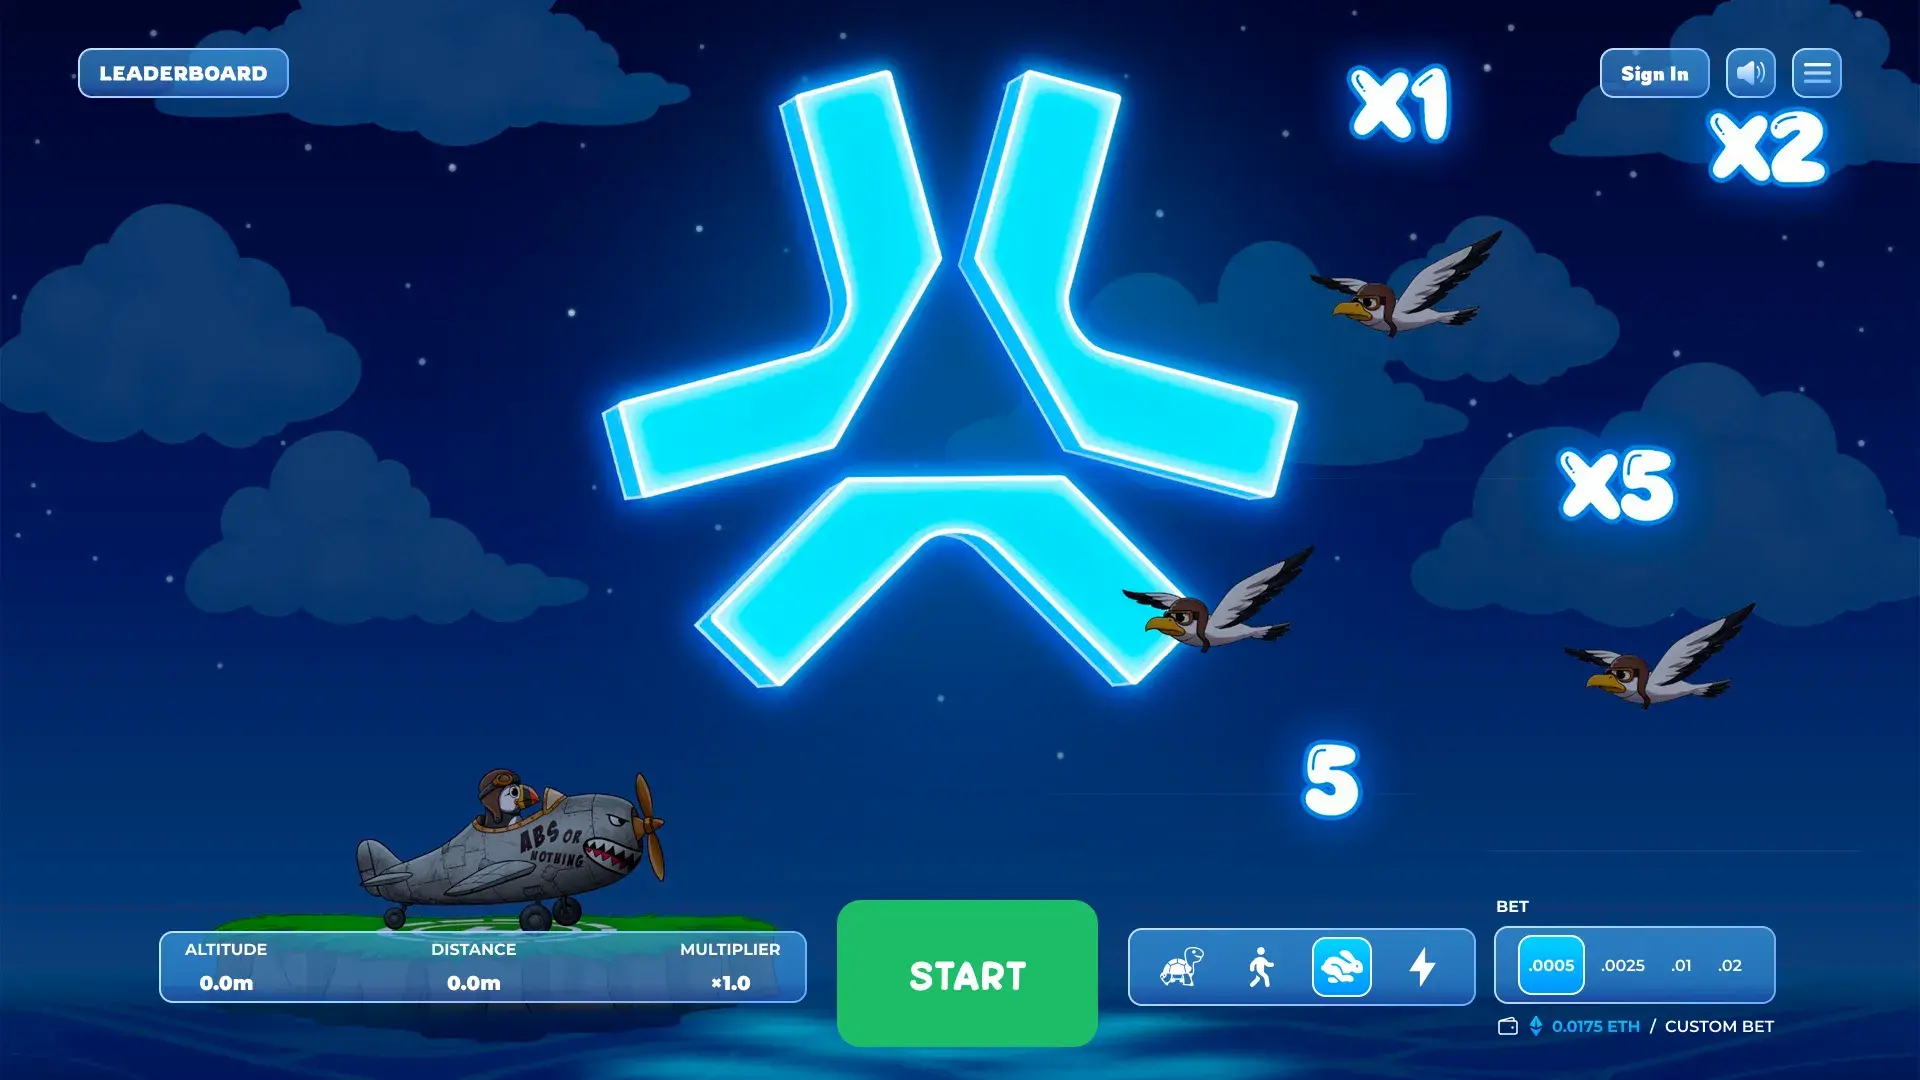
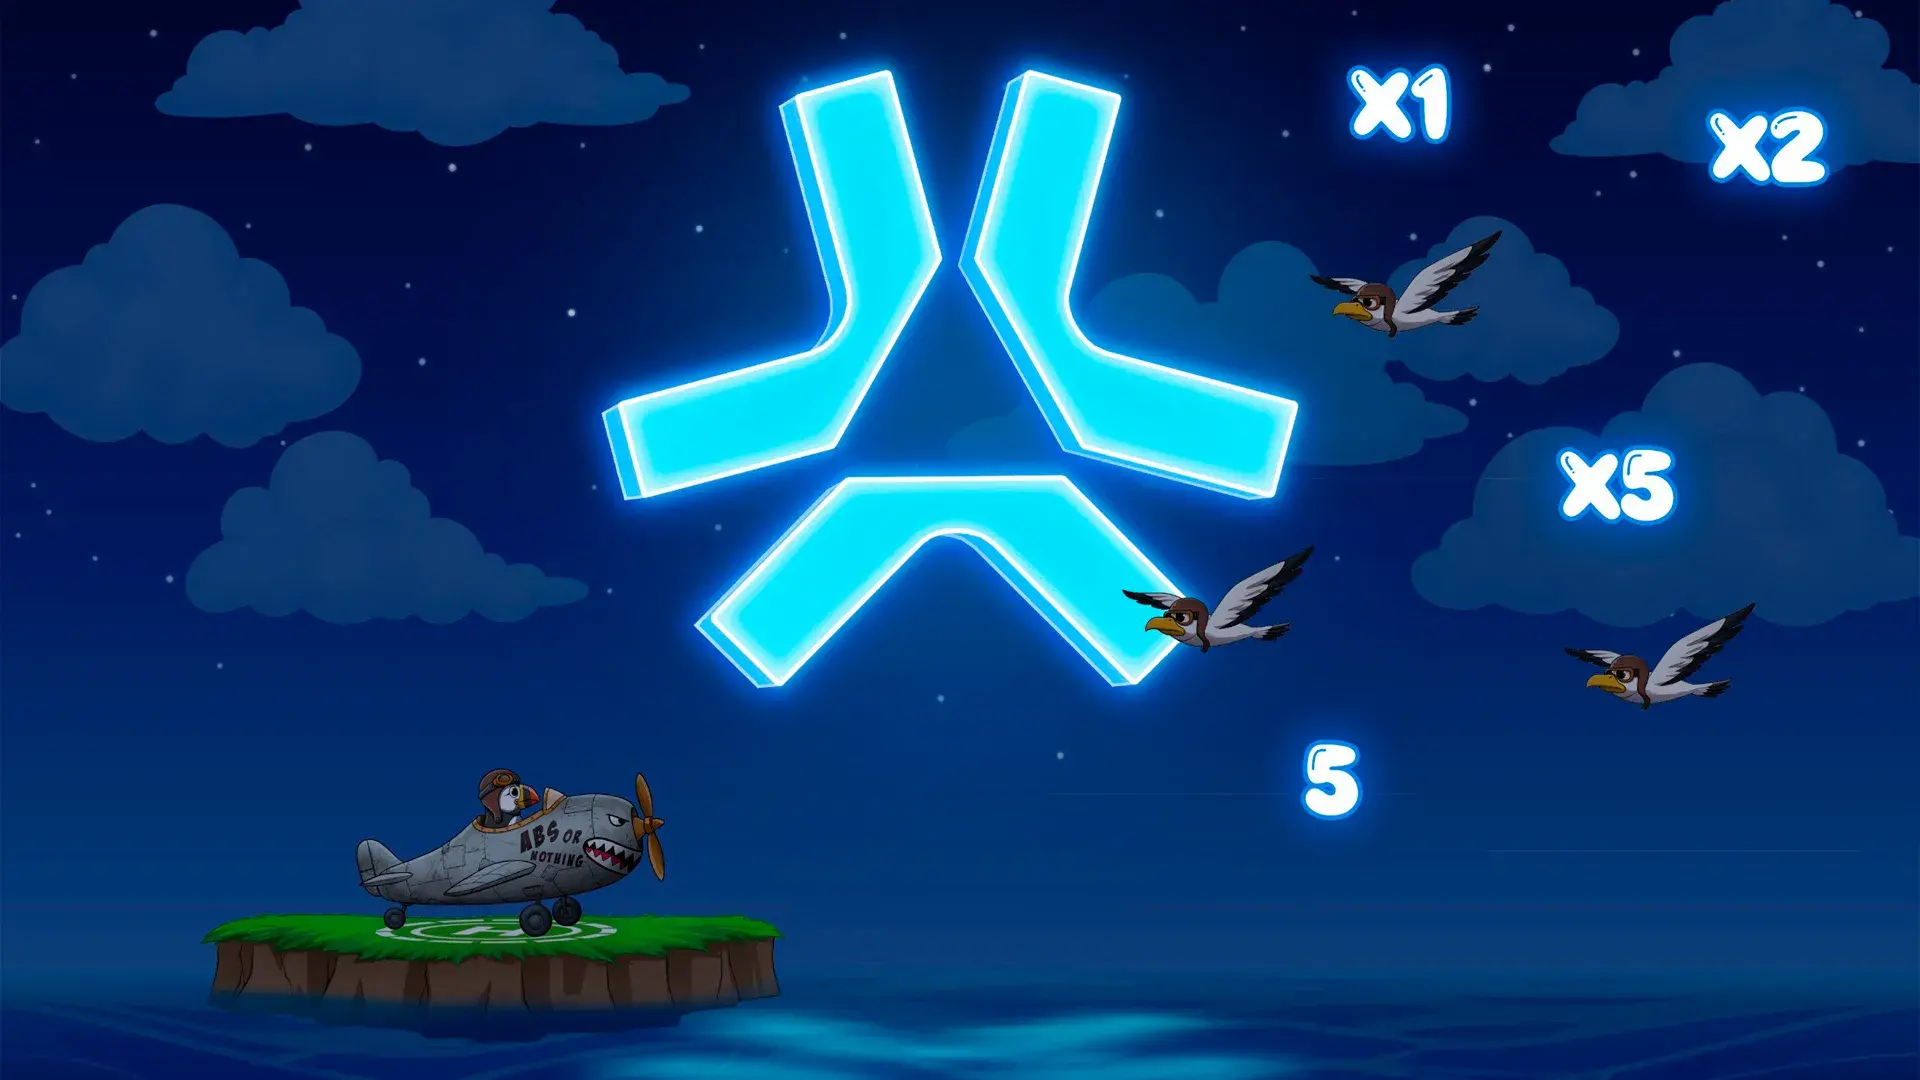
fa

Changed region(s): [[0.0625, 0.825, 0.9375, 0.9778], [0.8125, 0.0306, 0.9688, 0.0917], [0.0312, 0.0306, 0.1562, 0.0917]]

diff --git a/src/widgets/Layouts/PuffinsLayout.tsx b/src/widgets/Layouts/PuffinsLayout.tsx
@@ -2,15 +2,23 @@ import { Outlet } from 'react-router-dom';
 import { useLocation } from 'react-router-dom';
 import clsx from 'clsx';
 import { HeaderPuffins } from '../HeaderPuffins';
+import { HeaderRush } from '../HeaderRush';
 import './PuffinsLayout.scss';
 
 export const PuffinsLayout: React.FC = () => {
   const { pathname } = useLocation();
   const isPuffinsPage = pathname === '/puffins';
+  const isRushPage = pathname === '/rush';
 
   return (
-    <div className={clsx('puffins-layout', isPuffinsPage && 'puffins-layout--with-bg')}>
-      {pathname === '/puffins' && <HeaderPuffins />}
+    <div
+      className={clsx('puffins-layout', {
+        ['puffins-layout--puffins-bg']: isPuffinsPage,
+        ['puffins-layout--rush-bg']: isRushPage,
+      })}
+    >
+      {isPuffinsPage && <HeaderPuffins />}
+      {isRushPage && <HeaderRush />}
 
       <main>
         <Outlet />

diff --git a/src/widgets/HeaderPuffins/ui/Information/Information.tsx b/src/widgets/HeaderPuffins/ui/Information/Information.tsx
@@ -22,7 +22,13 @@ export const Information = () => {
         className="puffins-information__right"
         onClick={() => setIsOpenPopup(!isOpenPopup)}
       >
-        <img src="/images/avatar-header.png" width={64} height={68} alt="Avatar" />
+        <img
+          src="/images/avatar-header.png"
+          width={64}
+          height={68}
+          alt="Avatar"
+          className="puffins-information__avatar"
+        />
 
         <div className="puffins-information__wrapper">
           <span className="puffins-information__name">{'Dmitry CH'}</span>

diff --git a/src/widgets/Layouts/PuffinsLayout.scss b/src/widgets/Layouts/PuffinsLayout.scss
@@ -3,7 +3,7 @@
 .puffins-layout {
   position: relative;
 
-  &--with-bg {
+  &--puffins-bg {
     background-image: url('/images/auth-bg.webp');
     background-size: cover;
     background-position: center top;
@@ -17,5 +17,13 @@
       backdrop-filter: blur(6px);
       background: rgba($colorBlack, 0.75);
     }
+  }
+
+  &--rush-bg {
+    background-image: url('/images/rush-bg.webp');
+    background-size: cover;
+    /* background-position: center top; */
+    background-repeat: no-repeat;
+    /* background-attachment: fixed; */
   }
 }

diff --git a/src/widgets/HeaderPuffins/ui/Popup/Popup.tsx b/src/widgets/HeaderPuffins/ui/Popup/Popup.tsx
@@ -28,7 +28,13 @@ export const Popup = (props: PopupProps) => {
         })}
       >
         <div className="puffins-popap__top">
-          <img src={'/images/avatar-popup.png'} width={120} height={120} alt="Avatar" />
+          <img
+            src={'/images/avatar-popup.png'}
+            width={120}
+            height={120}
+            alt="Avatar"
+            className="puffins-popap__avatar"
+          />
 
           <div className="puffins-popap__stat">
             <div className="puffins-popap__name">{'Dmitry CH'}</div>

diff --git a/src/widgets/HeaderRush/ui/HeaderRush/HeaderRush.tsx b/src/widgets/HeaderRush/ui/HeaderRush/HeaderRush.tsx
@@ -1,0 +1,17 @@
+import { Link } from 'react-router-dom';
+import Logo from '@/shared/assets/svg/logo-puffins.svg?react';
+import './HeaderRush.scss';
+
+export const HeaderRush = () => {
+  return (
+    <header className="header-rush">
+      <div className="container-puffins">
+        <div className="header-rush__wrapper">
+          <Link to="/rush" className="header-rush__wrapper-link">
+            <Logo />
+          </Link>
+        </div>
+      </div>
+    </header>
+  );
+};

diff --git a/src/widgets/HeaderRush/ui/HeaderRush/HeaderRush.scss b/src/widgets/HeaderRush/ui/HeaderRush/HeaderRush.scss
@@ -1,0 +1,17 @@
+.header-rush {
+  width: 100%;
+  padding-top: 24px;
+  position: relative;
+  z-index: 20;
+  transition: all 0.3s;
+
+  &__wrapper {
+    display: flex;
+    align-items: center;
+    justify-content: space-between;
+  }
+
+  &__wrapper-link {
+    display: flex;
+  }
+}

diff --git a/src/Pages/PuffinRush/ui/PuffinRush/PuffinRush.tsx b/src/Pages/PuffinRush/ui/PuffinRush/PuffinRush.tsx
@@ -1,5 +1,7 @@
 import './PuffinRush.scss';
 
 export const PuffinRush = () => {
-  return <section>PuffinRush page</section>;
+  return (
+    <section className="section-puffins section-rush__game">PuffinRush page</section>
+  );
 };

diff --git a/src/widgets/HeaderPuffins/ui/Popup/Popup.scss b/src/widgets/HeaderPuffins/ui/Popup/Popup.scss
@@ -28,6 +28,12 @@
     gap: 16px;
   }
 
+  &__avatar {
+    border: 4px solid rgba($colorWhite, 0.4);
+    border-radius: 100%;
+    object-fit: cover;
+  }
+
   &__stat {
     width: 100%;
   }

diff --git a/src/widgets/HeaderPuffins/ui/Information/Information.scss b/src/widgets/HeaderPuffins/ui/Information/Information.scss
@@ -51,6 +51,11 @@
     cursor: pointer;
   }
 
+  &__avatar {
+    object-fit: cover;
+    border-radius: 0% 100% 100% 0%;
+  }
+
   &__wrapper {
     padding-top: 2px;
   }

diff --git a/src/widgets/HeaderRush/ui/LeaderBoard/LeaderBoard.tsx b/src/widgets/HeaderRush/ui/LeaderBoard/LeaderBoard.tsx
@@ -1,0 +1,5 @@
+import './LeaderBoard.scss';
+
+export const LeaderBoard = () => {
+  return <div>LeaderBoard</div>;
+};

diff --git a/src/widgets/HeaderRush/ui/Menu/Menu.tsx b/src/widgets/HeaderRush/ui/Menu/Menu.tsx
@@ -1,0 +1,5 @@
+import './Menu.scss';
+
+export const Menu = () => {
+  return <div>Menu</div>;
+};

diff --git a/src/widgets/HeaderRush/index.ts b/src/widgets/HeaderRush/index.ts
@@ -1,0 +1,1 @@
+export { HeaderRush } from './ui/HeaderRush/HeaderRush';
